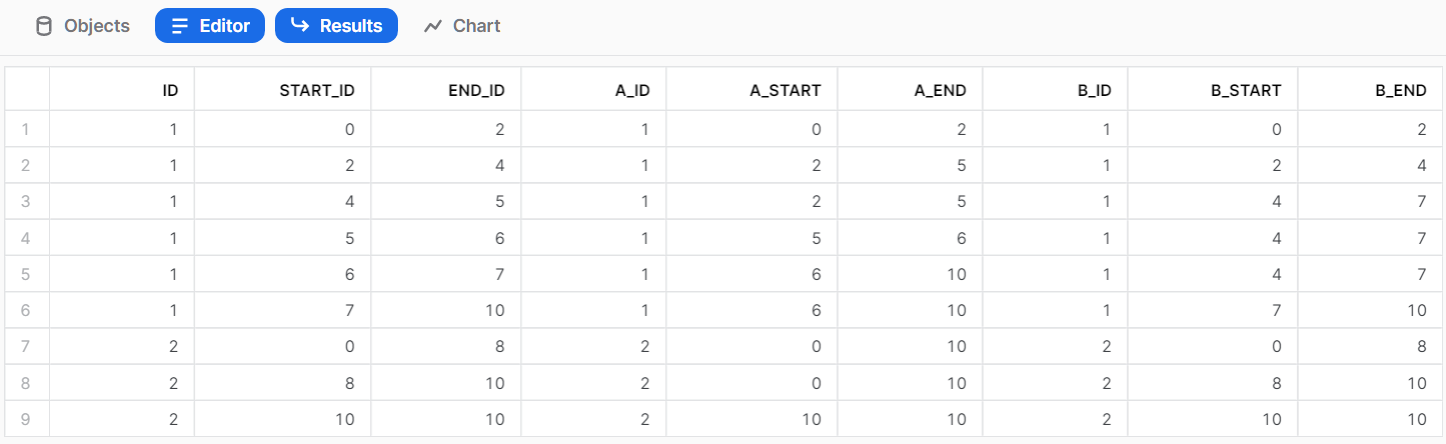
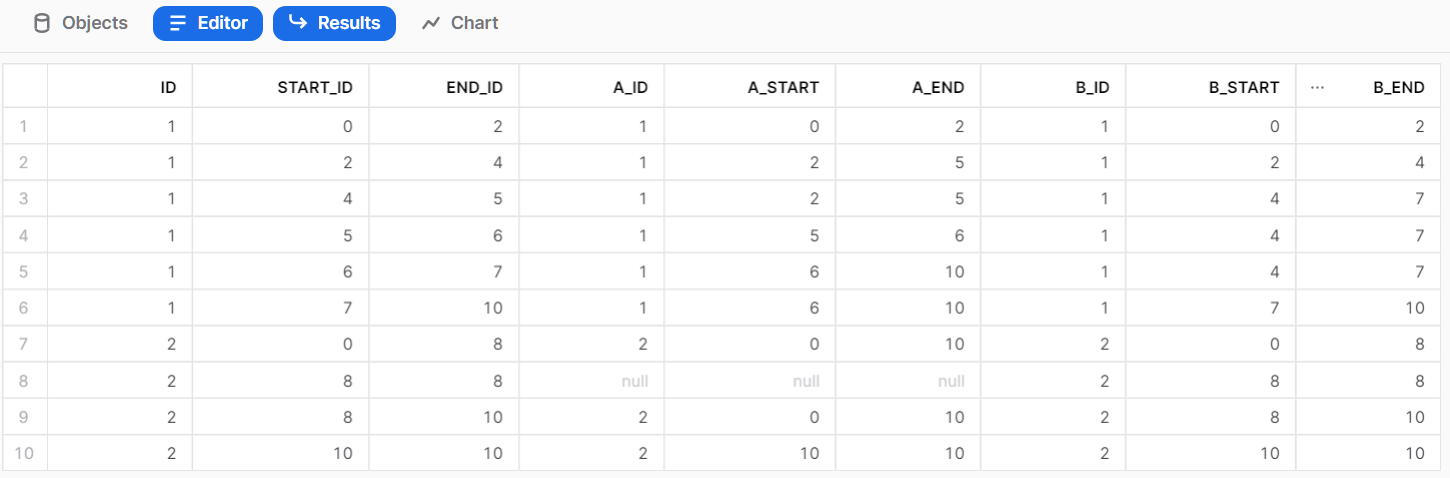
Fix bug in Example B

diff --git a/docs/Data_Engineering_Analysis/general/timeline_merging.md b/docs/Data_Engineering_Analysis/general/timeline_merging.md
@@ -71,6 +71,11 @@ this special case and for the normal case. For the special case we also need to 
 an extra record on timeline C with the C-start and C-end equal.
 
 To the rule for the normal case we need to add that the begin and end are not coinciding.
+!!! tip
+    If you are certain that records with begin and end times equal only occur at the
+    end of your timeline. Then you can simplify the logic by not having to add above mentioned
+    filter to your normal case. This is because we only use the start node of the new timeline
+    to do the matching. That means there is never going to be a check on your last node (which can only be an end node).
 
 The rules for the special case would be:
 
